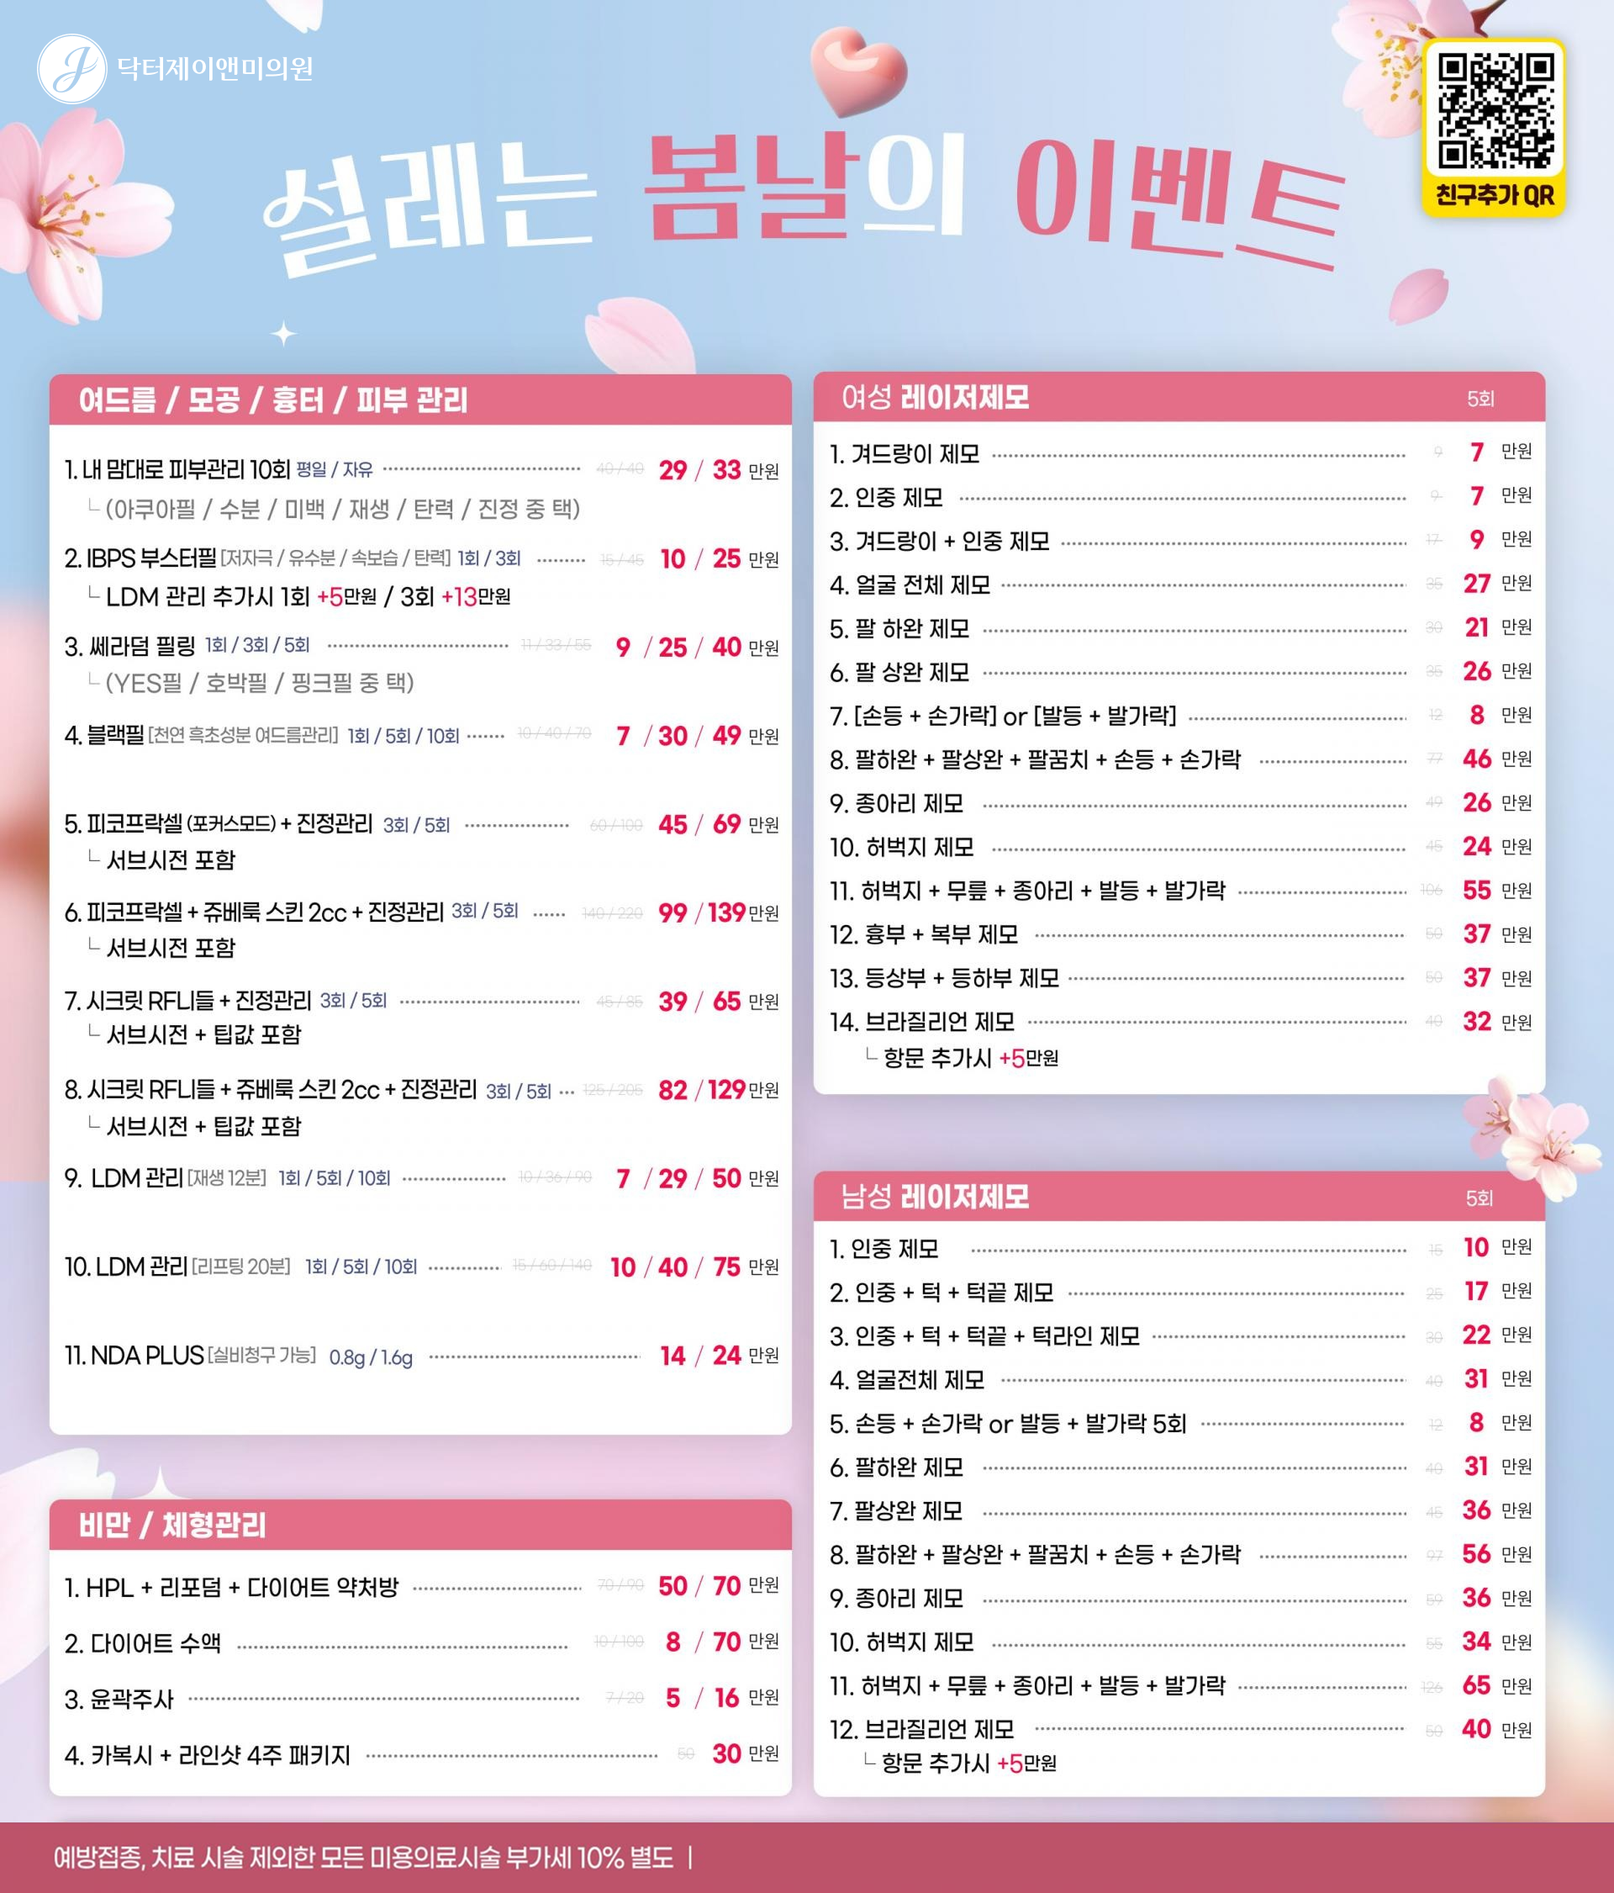
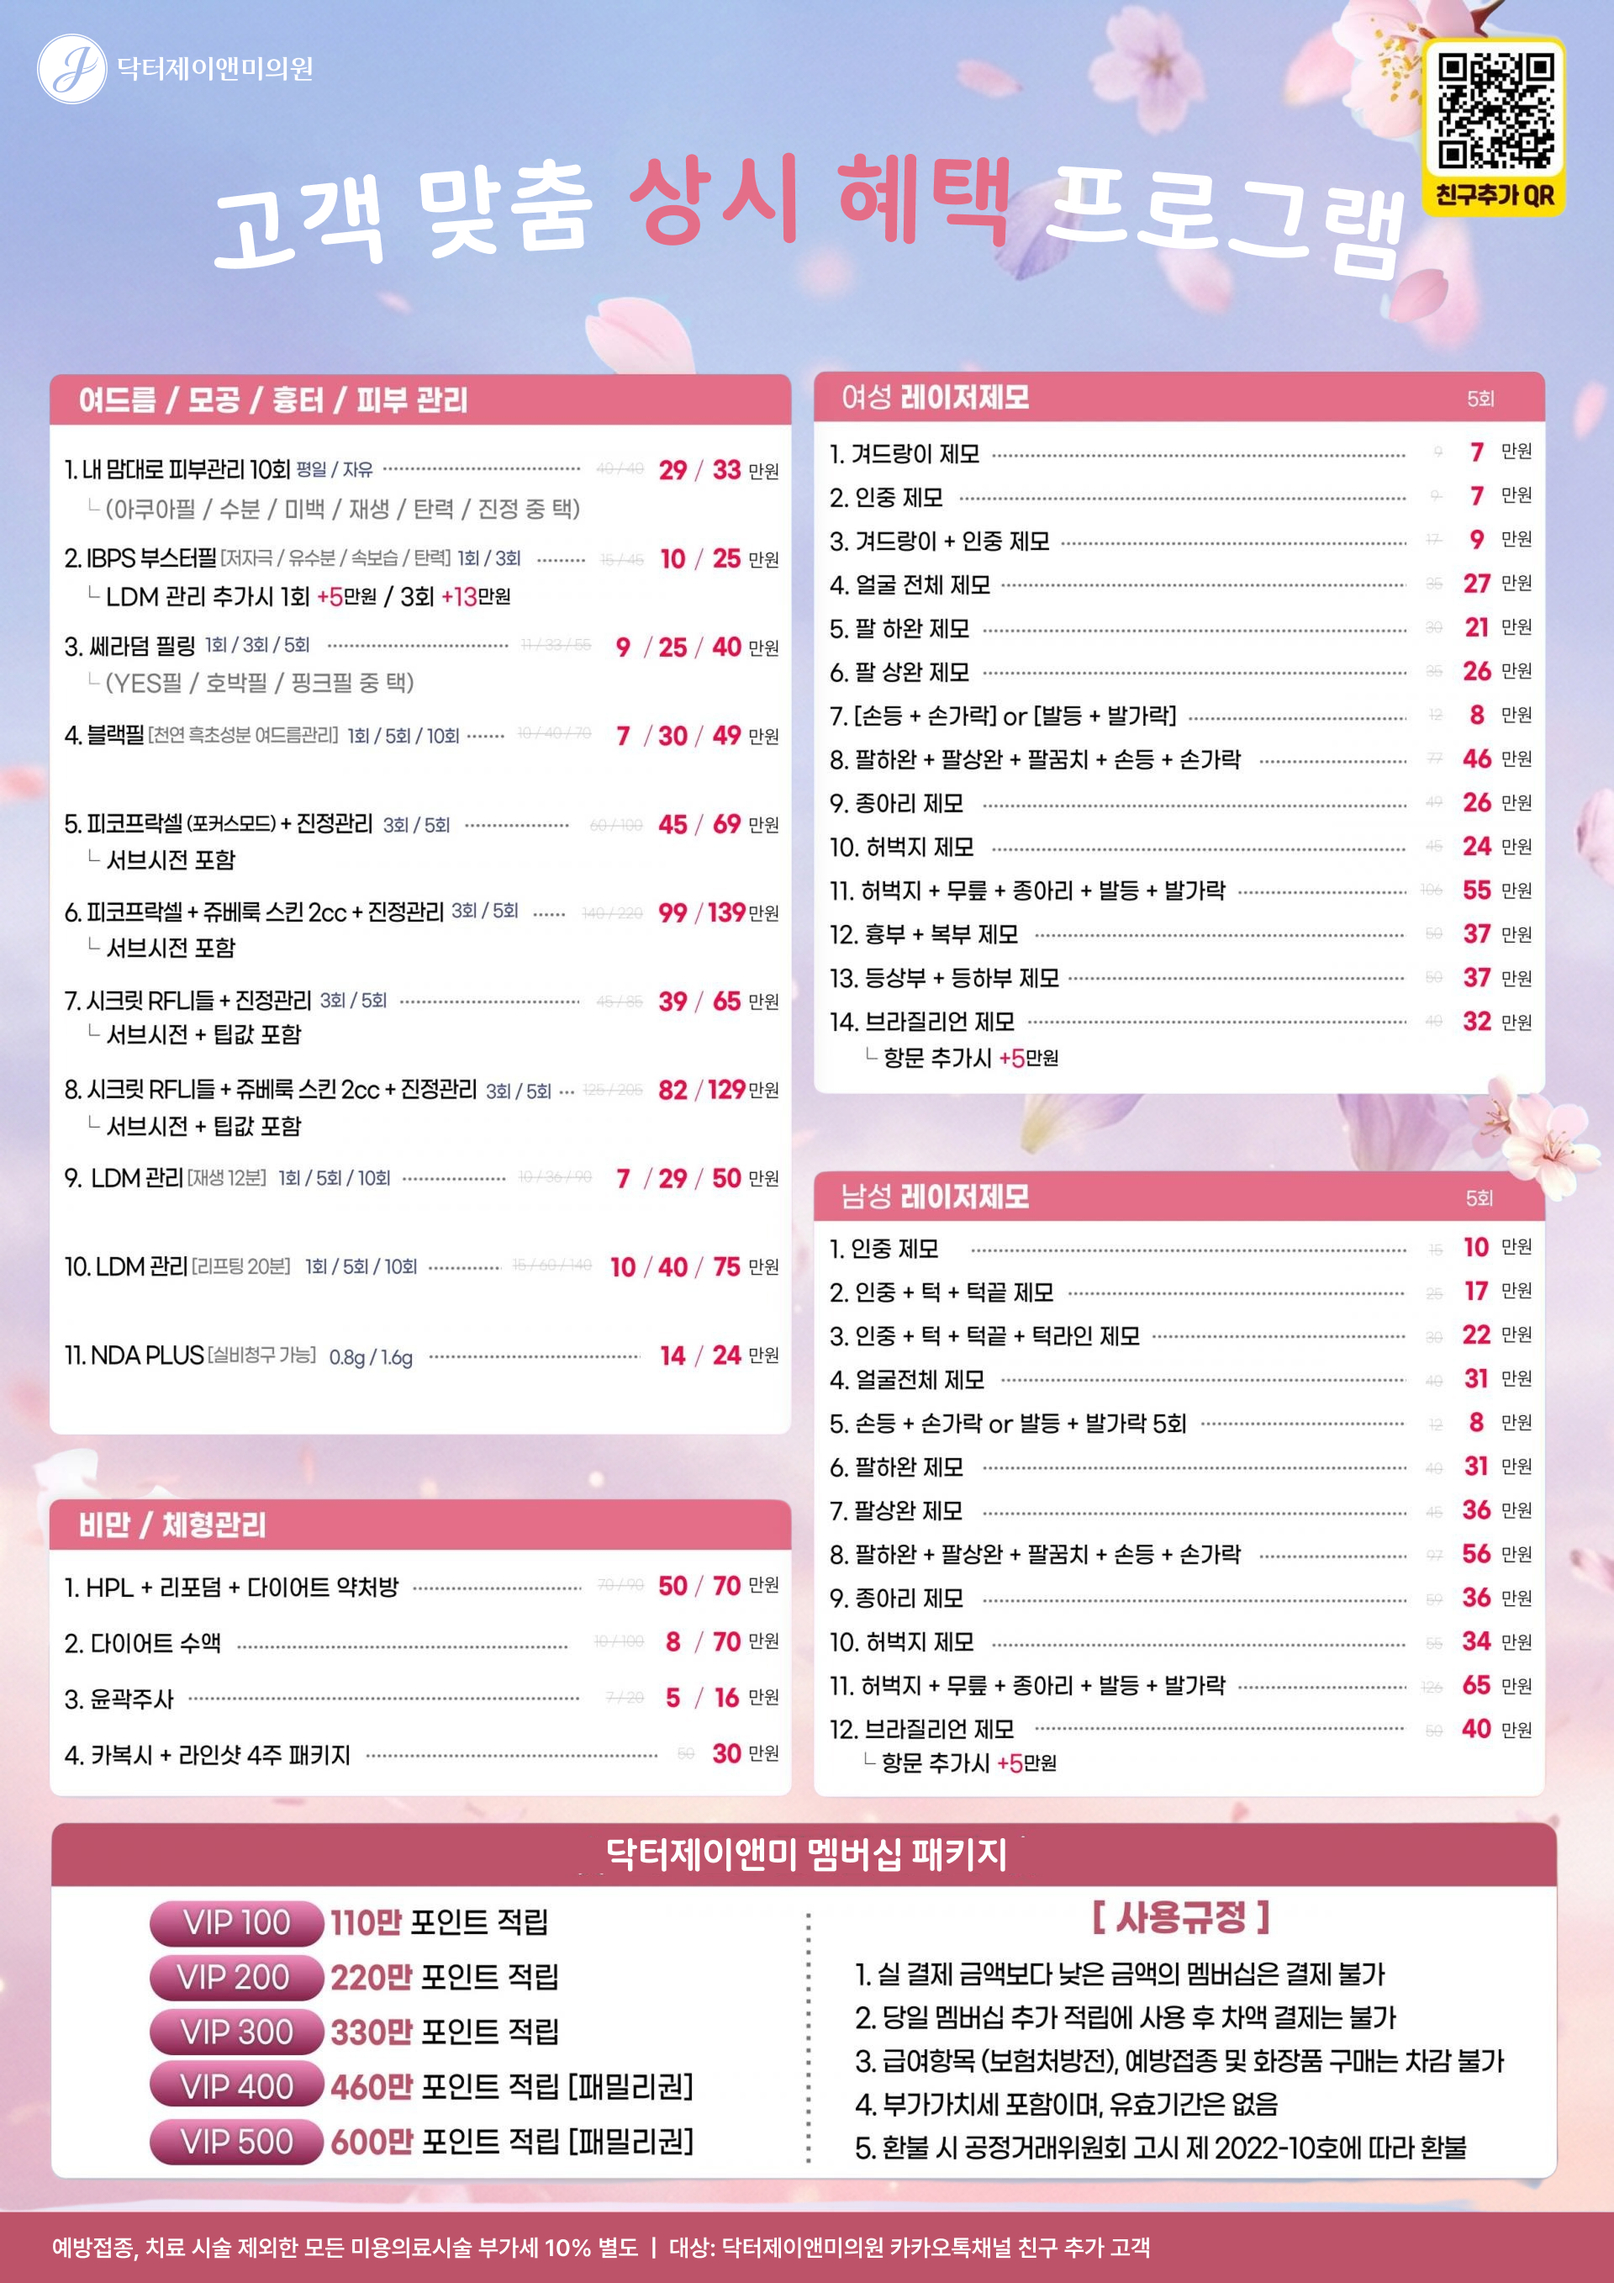
Replace event images and restructure notice events
Update notice events with new image set and Korean-only titles.
Move event 3 to season tab, reorder always tab as 1 → 4 → 2.
Remove subtitle field and detail-page title section.

diff --git a/src/data/noticeEvents.ts b/src/data/noticeEvents.ts
@@ -4,42 +4,37 @@ export interface NoticeEvent {
   id: number;
   tab: TabKey;
   title: string;
-  subtitle: string;
   thumbnail: string;
   contentImages: string[];
 }
 
 export const ALWAYS: NoticeEvent[] = [
   {
-    id: 2, tab: 'always',
-    title: '프리미엄 패키지',
-    subtitle: 'Premium Package',
-    thumbnail: '/이벤트/2.png',
-    contentImages: ['/이벤트/2.1.png'],
-  },
-  {
-    id: 3, tab: 'always',
-    title: '베스트 스킨부스터',
-    subtitle: 'Best Skin Booster',
-    thumbnail: '/이벤트/3.png',
-    contentImages: ['/이벤트/3.1.png'],
+    id: 1, tab: 'always',
+    title: '고객맞춤 상시혜택 프로그램',
+    thumbnail: '/이벤트/1.png',
+    contentImages: ['/이벤트/1.1.png', '/이벤트/1.2.png'],
   },
   {
     id: 4, tab: 'always',
-    title: '피부질환 보험진료',
-    subtitle: 'Insurance Treatment',
+    title: '닥터제이앤미의원 이벤트',
     thumbnail: '/이벤트/4.png',
-    contentImages: ['/이벤트/4.1.png'],
+    contentImages: ['/이벤트/4.1.png', '/이벤트/4.2.png', '/이벤트/4.3.png'],
+  },
+  {
+    id: 2, tab: 'always',
+    title: '제증명 수수료 · 비급여 치료 금액안내',
+    thumbnail: '/이벤트/2.png',
+    contentImages: ['/이벤트/2.1.png'],
   },
 ];
 
 export const SEASON: NoticeEvent[] = [
   {
-    id: 1, tab: 'season',
-    title: '5월 설렘, 봄 이벤트',
-    subtitle: 'Spring Special Event',
-    thumbnail: '/이벤트/1.png',
-    contentImages: ['/이벤트/1.1.png', '/이벤트/1.2.png'],
+    id: 3, tab: 'season',
+    title: '평일 이벤트',
+    thumbnail: '/이벤트/3.png',
+    contentImages: ['/이벤트/3.1.png'],
   },
 ];
 

diff --git a/src/pages/NoticeDetail.tsx b/src/pages/NoticeDetail.tsx
@@ -23,27 +23,6 @@ export default function NoticeDetail() {
         noArc
       />
 
-      {/* 이벤트 제목 · 부제 */}
-      <section className="bg-white py-14 border-b border-gray-100">
-        <motion.div
-          initial={{ opacity: 0, y: 20 }}
-          animate={{ opacity: 1, y: 0 }}
-          transition={{ duration: 0.6 }}
-          className="max-w-3xl mx-auto px-6 text-center"
-        >
-          <p className="text-[11px] font-black tracking-[0.4em] text-[#6b9ab8] mb-4 uppercase">
-            {event.subtitle}
-          </p>
-          <h1
-            className="text-[#111] mb-4"
-            style={{ fontSize: 'clamp(26px, 4vw, 42px)', fontWeight: 900, letterSpacing: '-0.02em', lineHeight: 1.3 }}
-          >
-            {event.title}
-          </h1>
-          <div className="w-8 h-[2px] bg-[#b4cfe4] mx-auto" />
-        </motion.div>
-      </section>
-
       {/* 내용 이미지 */}
       <section className="bg-white py-14">
         <div className="max-w-3xl mx-auto px-4 sm:px-6 flex flex-col gap-4">

diff --git a/src/pages/Notice.tsx b/src/pages/Notice.tsx
@@ -27,7 +27,6 @@ function EventCard({ item, index }: { item: NoticeEvent; index: number }) {
         />
         {/* 호버 오버레이 */}
         <div className="absolute inset-0 bg-black/50 opacity-0 group-hover:opacity-100 transition-opacity duration-300 flex flex-col items-center justify-center text-center px-4">
-          <p className="text-[10px] font-bold tracking-[0.3em] text-[#b4cfe4] mb-2 uppercase">{item.subtitle}</p>
           <h3 className="text-white font-black leading-tight" style={{ fontSize: 'clamp(14px, 2vw, 20px)', letterSpacing: '-0.02em' }}>
             {item.title}
           </h3>
